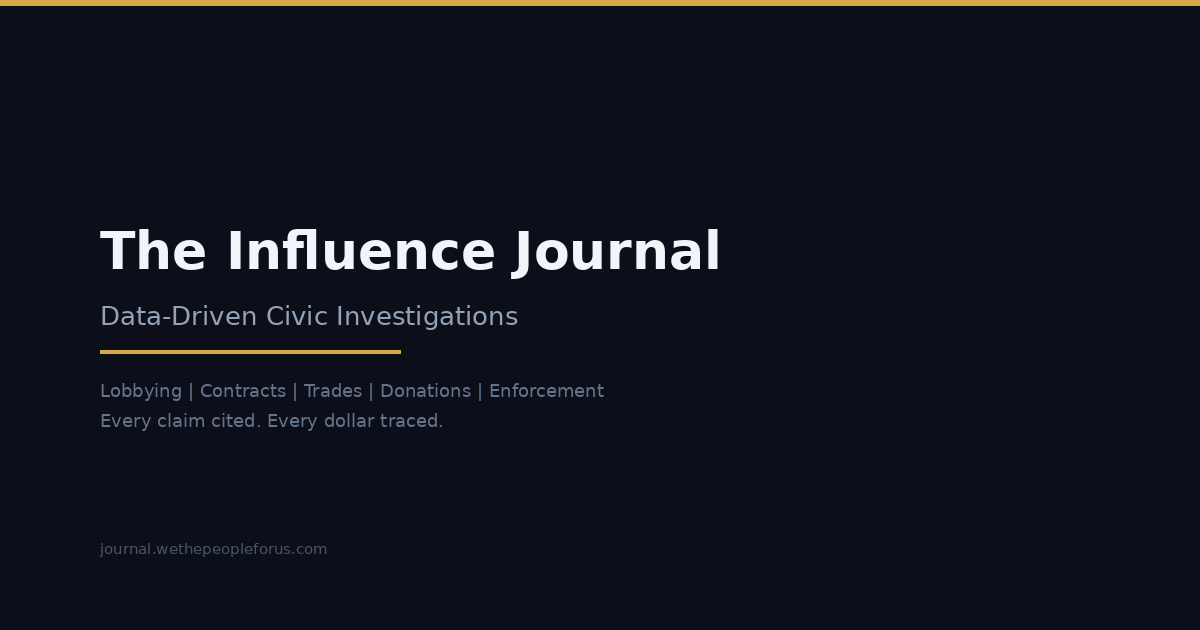
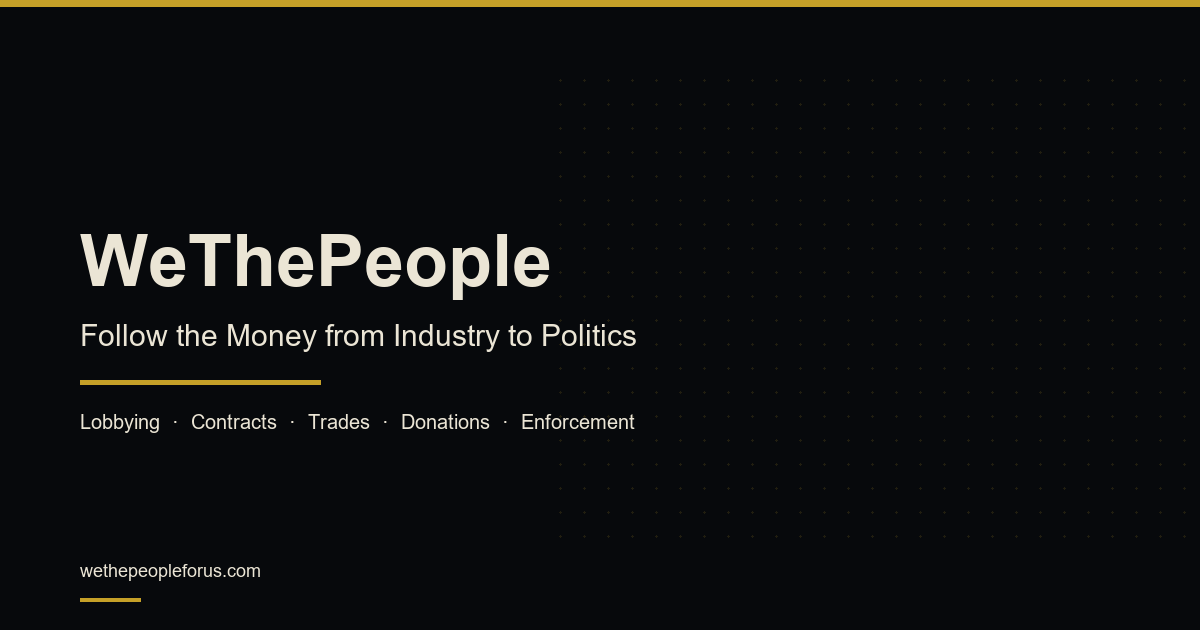
fix(og): generate per-site branded OG images, replace shared placeholder
The previous OG fix copied journal/public/og-image.png to all four
sites' public dirs. Result: every LinkedIn / Twitter / Slack preview
showed 'The Influence Journal' branding regardless of which site the
link came from. User correctly called this a 'broken placeholder
image' — wrong brand on three of the four cards.

NEW: jobs/generate_og_images.py renders four 1200×630 PNGs from the
same template, with each site's own brand tokens:

  • frontend/public/og-image.png         WeThePeople (gold)
  • sites/journal/public/og-image.png    The Influence Journal (crimson)
  • sites/verify/public/og-image.png     Veritas (emerald)
  • sites/research/public/og-image.png   WTP Research (violet)

Pure-Python PIL (no cairo / SVG dependency) so it runs anywhere.
Re-runnable — overwrites all four PNGs in one pass. Use after a
brand-token or tagline change.

NOTE for the LinkedIn refresh: LinkedIn caches OG previews
aggressively. After this deploys, paste each URL into
https://www.linkedin.com/post-inspector/ to force a re-fetch
before sharing.

diff --git a/jobs/generate_og_images.py b/jobs/generate_og_images.py
@@ -1,0 +1,180 @@
+"""Generate per-site OG images for the WTP ecosystem.
+
+Each subdomain — main, journal, verify, research — needs its own 1200×630
+og-image.png so LinkedIn / Twitter / Slack previews show the right brand
+identity. A single shared image makes every non-journal link look like
+a journal link.
+
+Output:
+    frontend/public/og-image.png             (main: gold)
+    sites/journal/public/og-image.png        (journal: crimson)
+    sites/verify/public/og-image.png         (verify: emerald)
+    sites/research/public/og-image.png       (research: violet)
+
+This script renders pure-Python PIL images (no SVG / cairo dependency)
+so it works on Windows without extra system libs. Fonts:
+    - DejaVu Sans Bold for the title (always present on Linux,
+      Pillow ships a copy on Windows under Pillow/Tests/fonts/)
+    - DejaVu Sans for taglines
+
+If the bundled DejaVu fonts can't be located on the host, we fall back
+to PIL's bitmap default font and just upscale.
+
+Re-run after a brand-token change or a tagline rewrite.
+"""
+
+from __future__ import annotations
+
+import os
+import sys
+from pathlib import Path
+
+try:
+    from PIL import Image, ImageDraw, ImageFont
+except ImportError:
+    print("ERROR: Pillow not installed. Run: pip install pillow", file=sys.stderr)
+    sys.exit(2)
+
+
+REPO_ROOT = Path(__file__).resolve().parents[1]
+
+WIDTH, HEIGHT = 1200, 630
+BG = (7, 9, 12)              # var(--color-bg)
+TEXT_1 = (235, 229, 213)      # var(--color-text-1)
+TEXT_2 = (235, 229, 213, 200) # half-strength
+TEXT_3 = (235, 229, 213, 130) # muted
+
+# Per-site brand tokens. Pulled from frontend/src/index.css and the
+# matching css files on each site so the cards stay visually
+# consistent with the live UI.
+SITES = [
+    {
+        "out": "frontend/public/og-image.png",
+        "title": "WeThePeople",
+        "tagline": "Follow the Money from Industry to Politics",
+        "metaline": "Lobbying  ·  Contracts  ·  Trades  ·  Donations  ·  Enforcement",
+        "footer": "wethepeopleforus.com",
+        "accent": (197, 160, 40),  # gold
+    },
+    {
+        "out": "sites/journal/public/og-image.png",
+        "title": "The Influence Journal",
+        "tagline": "Data-Driven Civic Investigations",
+        "metaline": "Lobbying  ·  Contracts  ·  Trades  ·  Donations  ·  Enforcement",
+        "footer": "journal.wethepeopleforus.com",
+        "accent": (230, 57, 70),  # crimson
+    },
+    {
+        "out": "sites/verify/public/og-image.png",
+        "title": "Veritas",
+        "tagline": "Zero-LLM Claim Verification Engine",
+        "metaline": "Paste a claim, article, or URL  ·  Scored evidence from 29+ government sources",
+        "footer": "verify.wethepeopleforus.com",
+        "accent": (16, 185, 129),  # emerald
+    },
+    {
+        "out": "sites/research/public/og-image.png",
+        "title": "WTP Research",
+        "tagline": "Deep-Dive Civic Data Tools",
+        "metaline": "Patents  ·  Drug Pipelines  ·  Clinical Trials  ·  Insider Trades  ·  Macro Indicators",
+        "footer": "research.wethepeopleforus.com",
+        "accent": (139, 92, 246),  # violet
+    },
+]
+
+
+def _load_font(size: int, bold: bool = False) -> ImageFont.FreeTypeFont | ImageFont.ImageFont:
+    """Find a usable TTF on the current host. We try a small list of
+    fonts that ship with Pillow / Linux / Windows; if none resolve we
+    fall back to PIL's bitmap default (which won't honour `size` but
+    at least produces output)."""
+    candidates_bold = [
+        "DejaVuSans-Bold.ttf",
+        "/usr/share/fonts/truetype/dejavu/DejaVuSans-Bold.ttf",
+        "/Library/Fonts/Arial Bold.ttf",
+        "C:/Windows/Fonts/arialbd.ttf",
+        "C:/Windows/Fonts/arial.ttf",  # last-ditch — non-bold but TTF
+    ]
+    candidates_regular = [
+        "DejaVuSans.ttf",
+        "/usr/share/fonts/truetype/dejavu/DejaVuSans.ttf",
+        "/Library/Fonts/Arial.ttf",
+        "C:/Windows/Fonts/arial.ttf",
+    ]
+    for path in (candidates_bold if bold else candidates_regular):
+        try:
+            return ImageFont.truetype(path, size=size)
+        except (OSError, IOError):
+            continue
+    return ImageFont.load_default()
+
+
+def render_card(spec: dict) -> None:
+    img = Image.new("RGB", (WIDTH, HEIGHT), color=BG)
+    draw = ImageDraw.Draw(img, "RGBA")
+
+    # Top accent bar — full-width, 6px, the site's accent colour.
+    draw.rectangle([(0, 0), (WIDTH, 6)], fill=spec["accent"])
+
+    # Subtle grid pattern in the right two-thirds. Same look as the
+    # journal card (radial-gradient → flat dots since we don't have
+    # gradient compositing in plain PIL without numpy).
+    for x in range(560, WIDTH, 24):
+        for y in range(80, HEIGHT - 80, 24):
+            draw.ellipse(
+                [(x - 1, y - 1), (x + 1, y + 1)],
+                fill=(*spec["accent"], 35),
+            )
+
+    # ── Text block ──────────────────────────────────────────────────
+    # Title sits at vertical centre, left-aligned, 100px high lines.
+    title_font = _load_font(72, bold=True)
+    tagline_font = _load_font(30, bold=False)
+    meta_font = _load_font(20, bold=False)
+    footer_font = _load_font(18, bold=False)
+
+    title_x = 80
+    title_y = 220
+    draw.text((title_x, title_y), spec["title"], font=title_font, fill=TEXT_1)
+
+    # Tagline directly under title.
+    bbox = draw.textbbox((title_x, title_y), spec["title"], font=title_font)
+    tagline_y = bbox[3] + 18
+    draw.text((title_x, tagline_y), spec["tagline"], font=tagline_font, fill=TEXT_2)
+
+    # Accent rule under tagline.
+    bbox2 = draw.textbbox((title_x, tagline_y), spec["tagline"], font=tagline_font)
+    rule_y = bbox2[3] + 28
+    draw.rectangle(
+        [(title_x, rule_y), (title_x + 240, rule_y + 4)],
+        fill=spec["accent"],
+    )
+
+    # Metaline (data sources / features), one row of small text.
+    meta_y = rule_y + 30
+    draw.text((title_x, meta_y), spec["metaline"], font=meta_font, fill=TEXT_3)
+
+    # Footer (domain) bottom-left.
+    draw.text((title_x, HEIGHT - 70), spec["footer"], font=footer_font, fill=TEXT_3)
+
+    # Bottom accent bar — short, 60×3, mirroring the title rule.
+    draw.rectangle(
+        [(title_x, HEIGHT - 32), (title_x + 60, HEIGHT - 29)],
+        fill=spec["accent"],
+    )
+
+    out_path = REPO_ROOT / spec["out"]
+    out_path.parent.mkdir(parents=True, exist_ok=True)
+    img.save(out_path, format="PNG", optimize=True)
+    print(f"  wrote {spec['out']}  ({out_path.stat().st_size:,} bytes)")
+
+
+def main():
+    print("Generating per-site OG images...")
+    for spec in SITES:
+        render_card(spec)
+    print("Done.")
+
+
+if __name__ == "__main__":
+    main()
